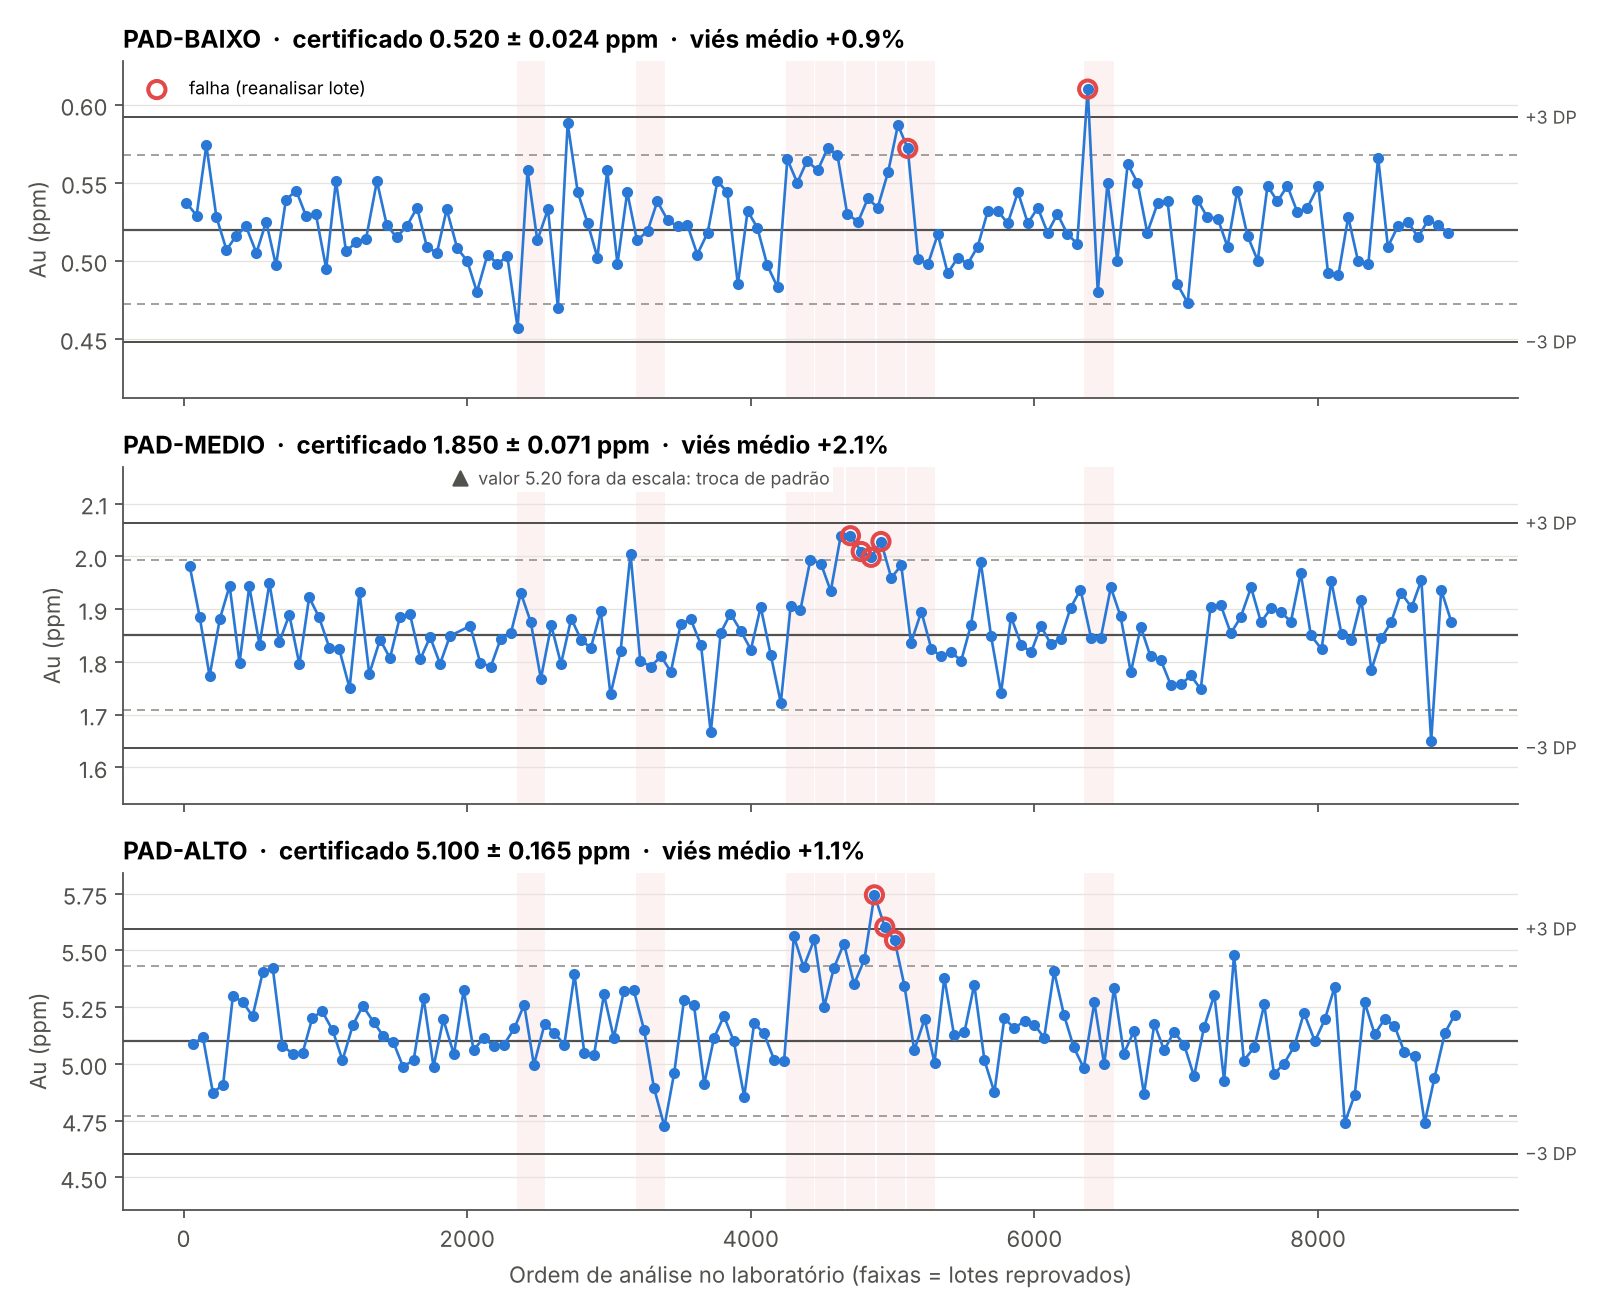
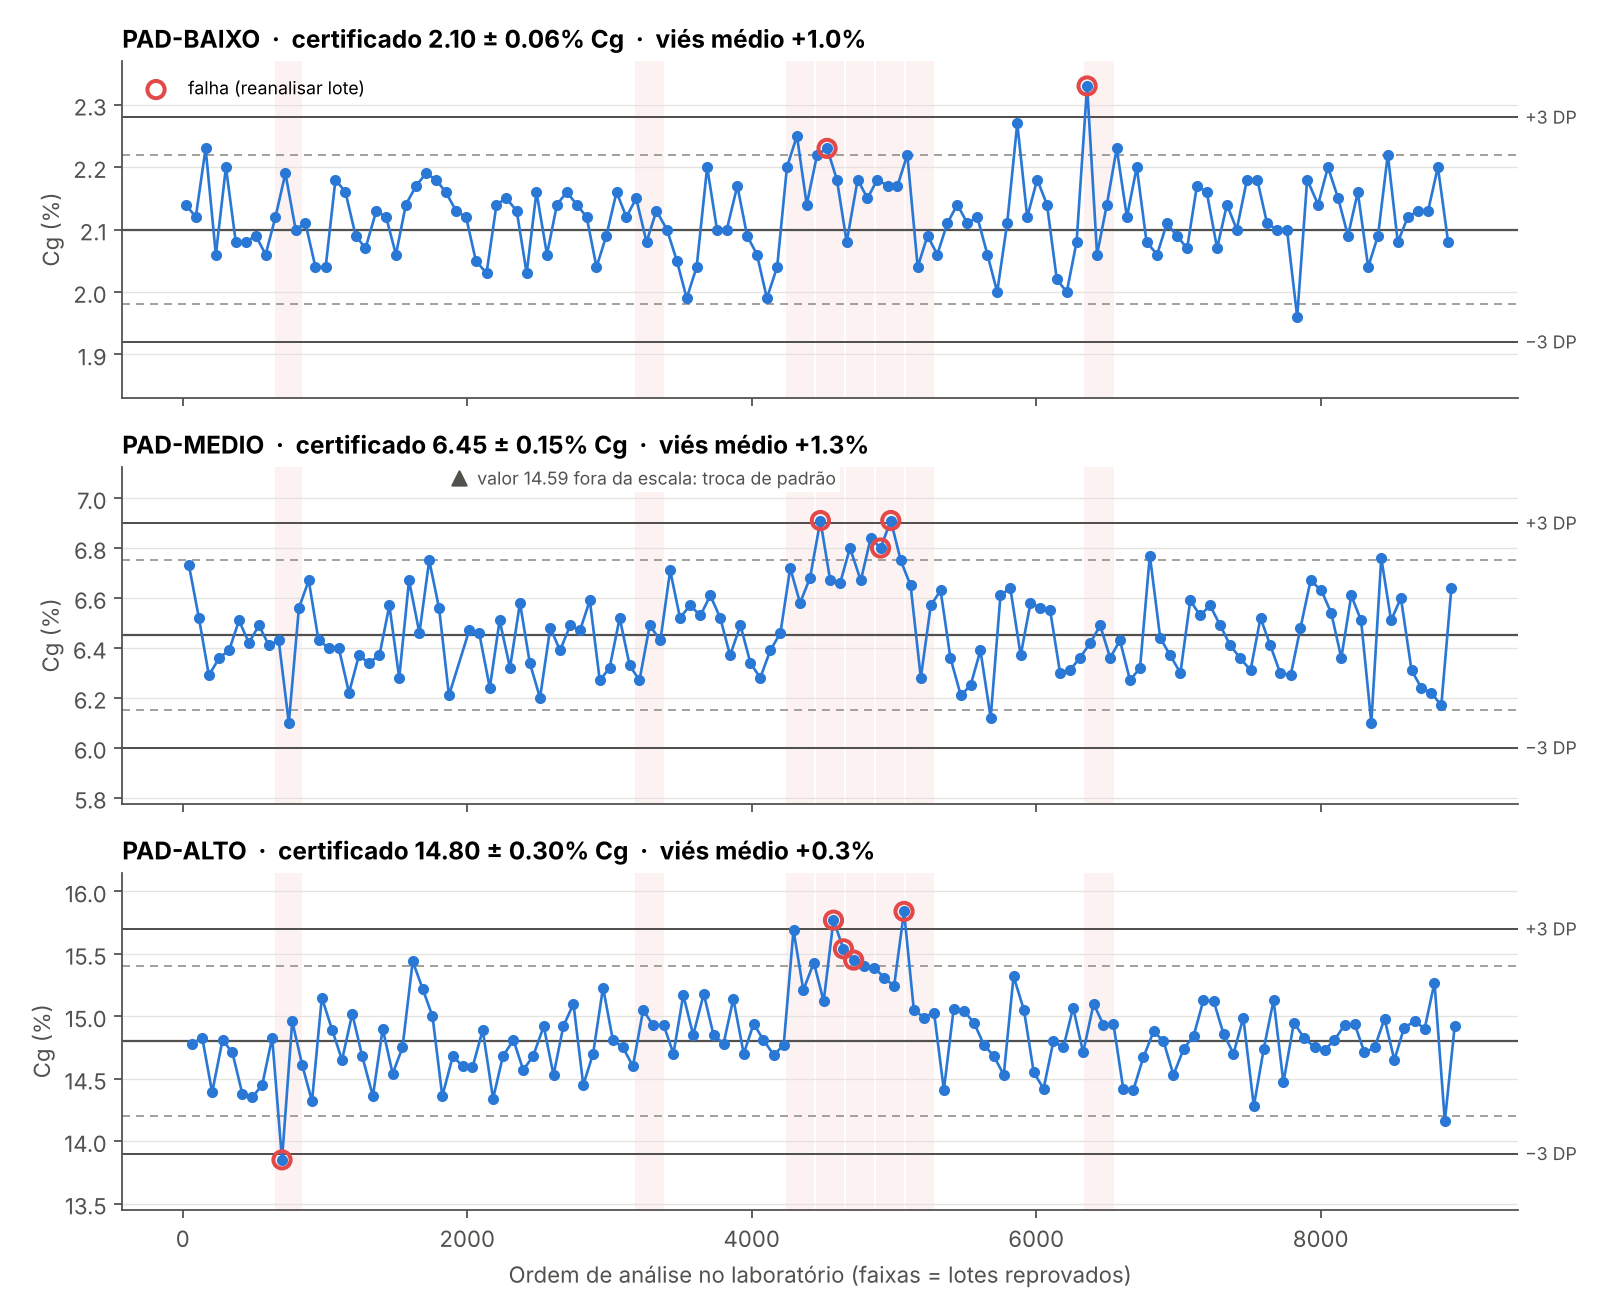
Projeto 3 adaptado para grafita

diff --git a/index.html b/index.html
@@ -363,11 +363,11 @@ print(log)
     <div class="case-head">
       <span class="label">Projeto 3 · Python + SQL · geologia · QA/QC de sondagem</span>
       <h3>Esses teores são confiáveis? QA/QC e validação de um banco de sondagem</h3>
-      <p class="question">Os teores de ouro de um banco de sondagem estão prontos para uma estimativa de recurso? Se não estiverem, quais lotes voltam ao laboratório e quais resultados ficam em espera?</p>
-      <p class="note">A rotina que eu fazia como analista de dados geológicos, em um projeto de ouro simulado (bancos reais de empresas são confidenciais): 40 furos, 7.630 m, 7.630 amostras de rotina e 1.347 amostras de controle em 43 lotes, no formato usual de collar, survey, litologia, amostragem e laudo, com os problemas que aparecem na prática.</p>
+      <p class="question">Os teores de grafita de um banco de sondagem estão prontos para uma estimativa de recurso? Se não estiverem, quais lotes voltam ao laboratório e quais resultados ficam em espera?</p>
+      <p class="note">A rotina que eu fazia como analista de dados geológicos, em um projeto de grafita simulado (bancos reais de empresas são confidenciais): 40 furos, 7.630 m, 7.630 amostras de rotina e 1.325 amostras de controle em 43 lotes, no formato usual de collar, survey, litologia, amostragem e laudo com carbono grafítico (Cg) e carbono total (CT), com os problemas que aparecem na prática.</p>
     </div>
     <div class="steps">
-      <div class="step"><span class="label">1 · Validar o banco</span><p>Coordenadas, collar x survey, sobreposições e lacunas de intervalo, códigos de litologia, unidades e amostras enviadas x devolvidas. Cada problema vai para um log como corrigido ou revisar.</p></div>
+      <div class="step"><span class="label">1 · Validar o banco</span><p>Coordenadas, collar x survey, sobreposições e lacunas de intervalo, códigos de litologia, unidades, Cg maior que o carbono total e amostras enviadas x devolvidas. Cada problema vai para um log como corrigido ou revisar.</p></div>
       <div class="step"><span class="label">2 · QA/QC</span><p>Cartas de controle dos padrões certificados (±2 e ±3 DP, viés por lote), brancos acima de 10 × LD e precisão das duplicatas de campo e de polpa (HARD).</p></div>
       <div class="step"><span class="label">3 · Impacto em SQL</span><p>Interceptos significativos com a técnica gaps and islands, ranking de furos com RANK e lista de pendências por furo para a equipe de geologia.</p></div>
     </div>
@@ -375,22 +375,22 @@ print(log)
     <table class="clean">
       <thead><tr><th>Verificação</th><th>Resultado</th></tr></thead>
       <tbody>
-        <tr><td>Problemas no banco (ex.: este/norte trocados, valor em ppb, furo “FD-40” inexistente)</td><td>22 · 12 corrigidos e 10 para revisar</td></tr>
+        <tr><td>Problemas no banco (ex.: este/norte trocados, teor em ppm no lugar de %, Cg maior que CT, furo “FD-40” inexistente)</td><td>25 · 12 corrigidos e 13 para revisar</td></tr>
         <tr><td>Lotes reprovados no QA/QC</td><td>8 de 43</td></tr>
-        <tr><td>Amostras mineralizadas (≥ 0,3 g/t) nesses lotes</td><td>21,2%</td></tr>
-        <tr><td>Interceptos significativos que ficam provisórios</td><td>8 de 42</td></tr>
-        <tr><td>Precisão das duplicatas: polpa · campo</td><td>aprovada · reprovada</td></tr>
+        <tr><td>Amostras mineralizadas (≥ 3% Cg) nesses lotes</td><td>20,5%</td></tr>
+        <tr><td>Interceptos significativos que ficam provisórios (incluindo os 2 melhores furos)</td><td>10 de 44</td></tr>
+        <tr><td>Precisão das duplicatas: polpa · campo</td><td>aprovada · aprovada</td></tr>
       </tbody>
     </table>
     </div>
-    <figure><figcaption><b>Cartas de controle dos padrões</b><span>Au em ppm · faixas = lotes reprovados</span></figcaption><img src="img/qaqc-cartas-controle.png" alt="Cartas de controle dos três padrões certificados, com a deriva do laboratório nos lotes L021 a L024" loading="lazy" style="width:100%;height:auto;border-radius:6px;background:#fff"></figure>
+    <figure><figcaption><b>Cartas de controle dos padrões</b><span>Cg em % · faixas = lotes reprovados</span></figcaption><img src="img/qaqc-cartas-controle.png" alt="Cartas de controle dos três padrões certificados, com a deriva do laboratório nos lotes L021 a L024" loading="lazy" style="width:100%;height:auto;border-radius:6px;background:#fff"></figure>
     <div class="read" style="display:grid;gap:.75rem">
       <span class="label">O que os dados mostram</span>
       <ul class="insights">
-        <li><b>Deriva do laboratório</b> nos lotes L021 a L024: os três padrões sobem juntos (média de +1,8 a +2,0 DP). Nenhum ponto isolado parece grave, mas a sequência mostra o viés.</li>
+        <li><b>Deriva do laboratório</b> nos lotes L021 a L024: os três padrões sobem juntos (média de +1,6 a +2,0 DP). Poucos pontos passam de 3 DP, mas a sequência mostra o viés.</li>
         <li>Um padrão “fora” no L010 era o <b>padrão errado no envio</b> (valor do PAD-ALTO numa etiqueta de PAD-MEDIO). Corrige-se o cadastro e o lote não é reanalisado à toa.</li>
-        <li>Os brancos só contaminaram <b>logo depois de amostras com mais de 17 g/t</b>: arraste na preparação, resolvido limpando o britador.</li>
-        <li>A duplicata de polpa repete bem e a de campo não: o laboratório é preciso, e a variação vem do <b>efeito pepita</b> do ouro grosso. A solução está na amostragem, não no laboratório.</li>
+        <li>Os brancos só contaminaram <b>logo depois de amostras de grafita maciça</b>: a grafita gruda no pulverizador e arrasta para a amostra seguinte. A solução é limpar com quartzo após alto teor.</li>
+        <li>Três amostras vieram com <b>carbono grafítico maior que o carbono total</b>, o que é impossível: provável troca de colunas no laudo. Os interceptos com essas amostras ficam provisórios até o laboratório confirmar.</li>
       </ul>
     </div>
     <figure><figcaption><b>Precisão das duplicatas</b><span>original x duplicata e curva HARD</span></figcaption><img src="img/qaqc-duplicatas.png" alt="Dispersão original x duplicata e curva HARD das duplicatas de campo e de polpa" loading="lazy" style="width:100%;height:auto;border-radius:6px;background:#fff"></figure>
